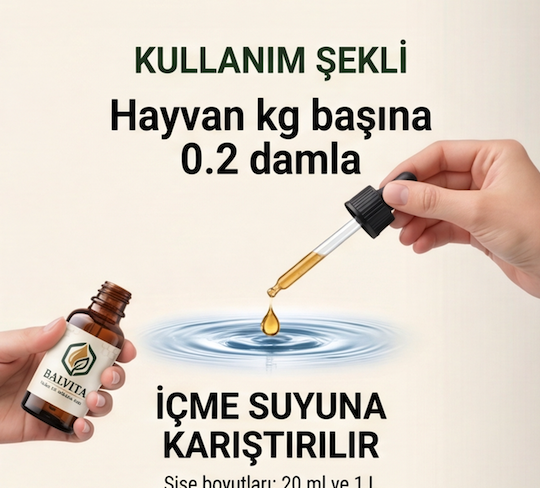
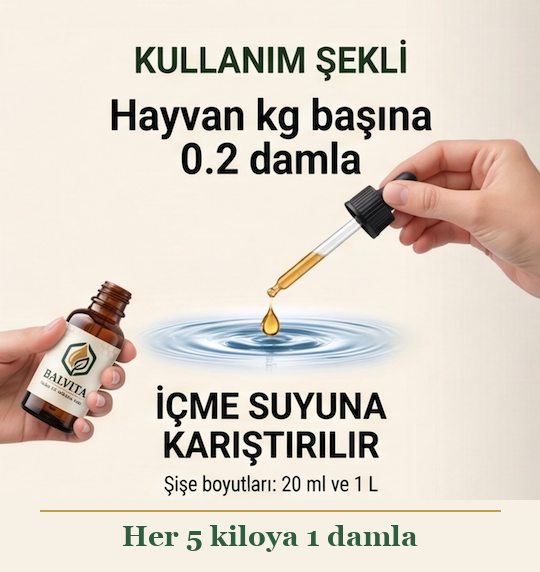
Kullanım Şekli überarbeitet: Bild + Her 5 kiloya 1 damla
- Grüner Dosis-Kasten entfernt
- kullanim.png neu: vollständig (kein Abschnitt), Veteriner-Text weg,
  'Her 5 kiloya 1 damla' direkt ins Bild eingebettet (grüne Schrift, Goldlinie)
- Layout: Bild links, İçeriğindekiler rechts

diff --git a/index.html b/index.html
@@ -164,15 +164,8 @@
                loading="lazy" />
         </div>
 
-        <!-- Sağ: Doz bilgisi + içerik -->
+        <!-- Sağ: İçerik -->
         <div class="usage-side" data-reveal>
-          <div class="usage-box" style="margin-bottom:1.6rem">
-            <span class="label">Hayvan kg başına</span>
-            <div class="dose">0.2 damla</div>
-            <div class="meta" style="margin:.4rem 0 0;font-size:1rem;color:var(--gold-light);font-weight:700;letter-spacing:.02em">Her 5 kiloya 1 damla</div>
-            <div class="how" style="margin-top:.9rem"><svg viewBox="0 0 24 24"><path d="M4 10h16l-1.4 6.2A3 3 0 0115.7 18H8.3a3 3 0 01-2.9-1.8z"/><path d="M9 7c0-1.2 1-1.6 1.5-2.6M13.5 7c0-1.2 1-1.6 1.5-2.6"/></svg> İçme suyuna karıştırılır</div>
-            <div class="meta" style="margin-top:.6rem">Şişe boyutları: 20 ml ve 1 L · Günlük kullanım önerilir</div>
-          </div>
           <h3>İçeriğindekiler</h3>
           <div class="ingredients">
             <div class="ingredient"><img class="i-ic" src="assets/icons/icerik-1.png" alt="" loading="lazy" /><strong>Propolis</strong><span>Doğal arı ürünü</span></div>